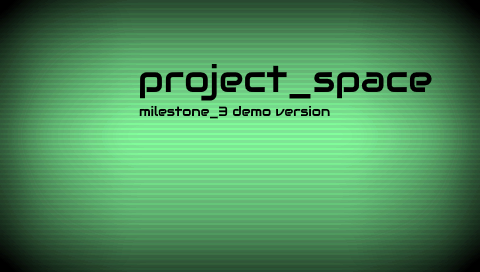
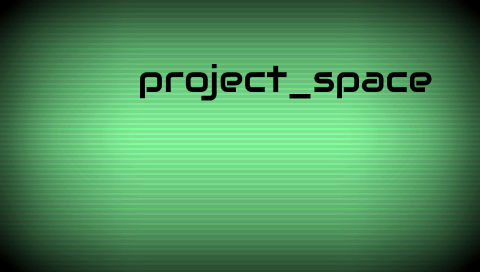
0.012.004 | Graphical improvements. The splash screen has been updated to not say "demo-version" and the hub world has been populated with items to not feel so empty. The hud in the hub world has been updated to give the user directions on what to do.

Changed region(s): [[0.2812, 0.3824, 0.6875, 0.4412]]

diff --git a/GroupProject/GroupProject/Game1.cs b/GroupProject/GroupProject/Game1.cs
@@ -35,6 +35,7 @@ namespace GroupProject
         Texture2D hud;
         Texture2D astro;
         Texture2D logo;
+        Texture2D screen;
 
         //Font for in-game text
         SpriteFont basicFont;
@@ -128,6 +129,7 @@ namespace GroupProject
             weaponLeft = Content.Load<Texture2D>("energyBlastLeft");
             weaponUp = Content.Load<Texture2D>("energyBlastUp");
             weaponDown = Content.Load<Texture2D>("energyBlastDown");
+            screen = Content.Load<Texture2D>("Screen");
 
             TextureManager.Instance.Textures.Add("crate", crate);
             TextureManager.Instance.Textures.Add("box", box);
@@ -143,7 +145,7 @@ namespace GroupProject
             TextureManager.Instance.Textures.Add("weaponLeft", weaponLeft);
             TextureManager.Instance.Textures.Add("weaponRight", weaponRight);
 
-            MapManager.Instance.NewMap("../../../Content/Levels/Level " + currentLevel);
+            MapManager.Instance.NewMap("../../../Content/Levels/Ship Hub");
 
             PlayerManager.Instance.Player.SetTexture(astro);
             PlayerManager.Instance.PlayerInventory.Inventory.Add(new Item(crate, "Crate"));
@@ -189,7 +191,7 @@ namespace GroupProject
             {
                 case GameState.MainMenu:
                     if (currentKb.IsKeyDown(Keys.Enter) && previousKb.IsKeyUp(Keys.Enter))
-                        gameState = GameState.Help;
+                        gameState = GameState.Hub;
                     break;
                 case GameState.Help:
                     if (currentKb.IsKeyDown(Keys.Enter) && previousKb.IsKeyUp(Keys.Enter))
@@ -250,16 +252,6 @@ namespace GroupProject
                         MapManager.Instance.DoorCheck(currentKb);
 
                     //Keys to open inventory and equipment screens
-                    if (currentKb.IsKeyDown(Keys.I) && previousKb.IsKeyUp(Keys.I))
-                    {
-                        gameState = GameState.Inventory;
-                        this.IsMouseVisible = true;
-                    }
-                    if (currentKb.IsKeyDown(Keys.E) && previousKb.IsKeyUp(Keys.E))
-                    {
-                        gameState = GameState.Equipment;
-                        this.IsMouseVisible = true;
-                    }
                     if (currentKb.IsKeyDown(Keys.L) && previousKb.IsKeyUp(Keys.L))
                     {
                         gameState = GameState.Load;
@@ -510,6 +502,10 @@ namespace GroupProject
                         this.IsMouseVisible = false;
                     }
                     MapManager.Instance.NewMap("../../../Content/Levels/Ship Hub");
+                    foreach(Item i in PlayerManager.Instance.PlayerInventory.Inventory)
+                    {
+                        MapManager.Instance.AddItemToInventory(0, 0, i);
+                    }
                     PlayerManager.Instance.PlayerInventory.Inventory.Clear();
                     break;
 
@@ -574,7 +570,34 @@ namespace GroupProject
 
                 case GameState.Hub:
                     MapManager.Instance.CurrentSubMap.Draw(spriteBatch);
+                    //Draw items to fill the area
+                    spriteBatch.Draw(crate, new Rectangle(200, 200, 50, 50), Color.NavajoWhite);
+                    spriteBatch.Draw(artifact, new Rectangle(400, 150, 80, 80), Color.NavajoWhite);
+                    spriteBatch.Draw(box, new Rectangle(150, 70, 30, 30), Color.NavajoWhite);
+                    spriteBatch.Draw(box, new Rectangle(500, 170, 30, 30), Color.NavajoWhite);
+                    spriteBatch.Draw(box, new Rectangle(200, 100, 30, 30), Color.NavajoWhite);
+                    spriteBatch.Draw(crate, new Rectangle(600, 250, 50, 50), Color.NavajoWhite);
+                    spriteBatch.Draw(crate, new Rectangle(650, 200, 50, 50), Color.NavajoWhite);
+                    spriteBatch.Draw(screen, new Rectangle(200, 20, 150, 70), Color.NavajoWhite);
+                    spriteBatch.Draw(screen, new Rectangle(417, 20, 150, 70), Color.NavajoWhite);
+                    //Draw the player
                     PlayerManager.Instance.Player.Draw(spriteBatch);
+                    spriteBatch.Draw(hud, new Rectangle(15, 15, 130, 90), Color.NavajoWhite);
+                    spriteBatch.DrawString(basicFont, "Level: " + currentLevel, new Vector2(25, 20), Color.Black);
+                    spriteBatch.DrawString(basicFont, "Health: " + PlayerManager.Instance.Player.Hp, new Vector2(25, 38), Color.Black);
+                    //Change the hud depending on the player's current level
+                    if(currentLevel == 1)
+                    {
+                        spriteBatch.DrawString(basicFont, "Welcome to your safehouse...", new Vector2(260, 250), Color.Black);
+                        spriteBatch.DrawString(basicFont, "Press L to launch to a new site...", new Vector2(240, 275), Color.Black);
+                        spriteBatch.DrawString(basicFont, "At each site, uncover 15 artifacts to discover the history of this lost planet.", new Vector2(50, 300), Color.Black);
+                    }
+                    else
+                    {
+                        spriteBatch.Draw(hud, new Rectangle(208, 345, 350, 50), Color.NavajoWhite);
+                        spriteBatch.DrawString(basicFont, "Press L to Launch to New Location", new Vector2(225, 350), Color.Black);
+                    }
+                    
                     break;
 
                 case GameState.Game:
